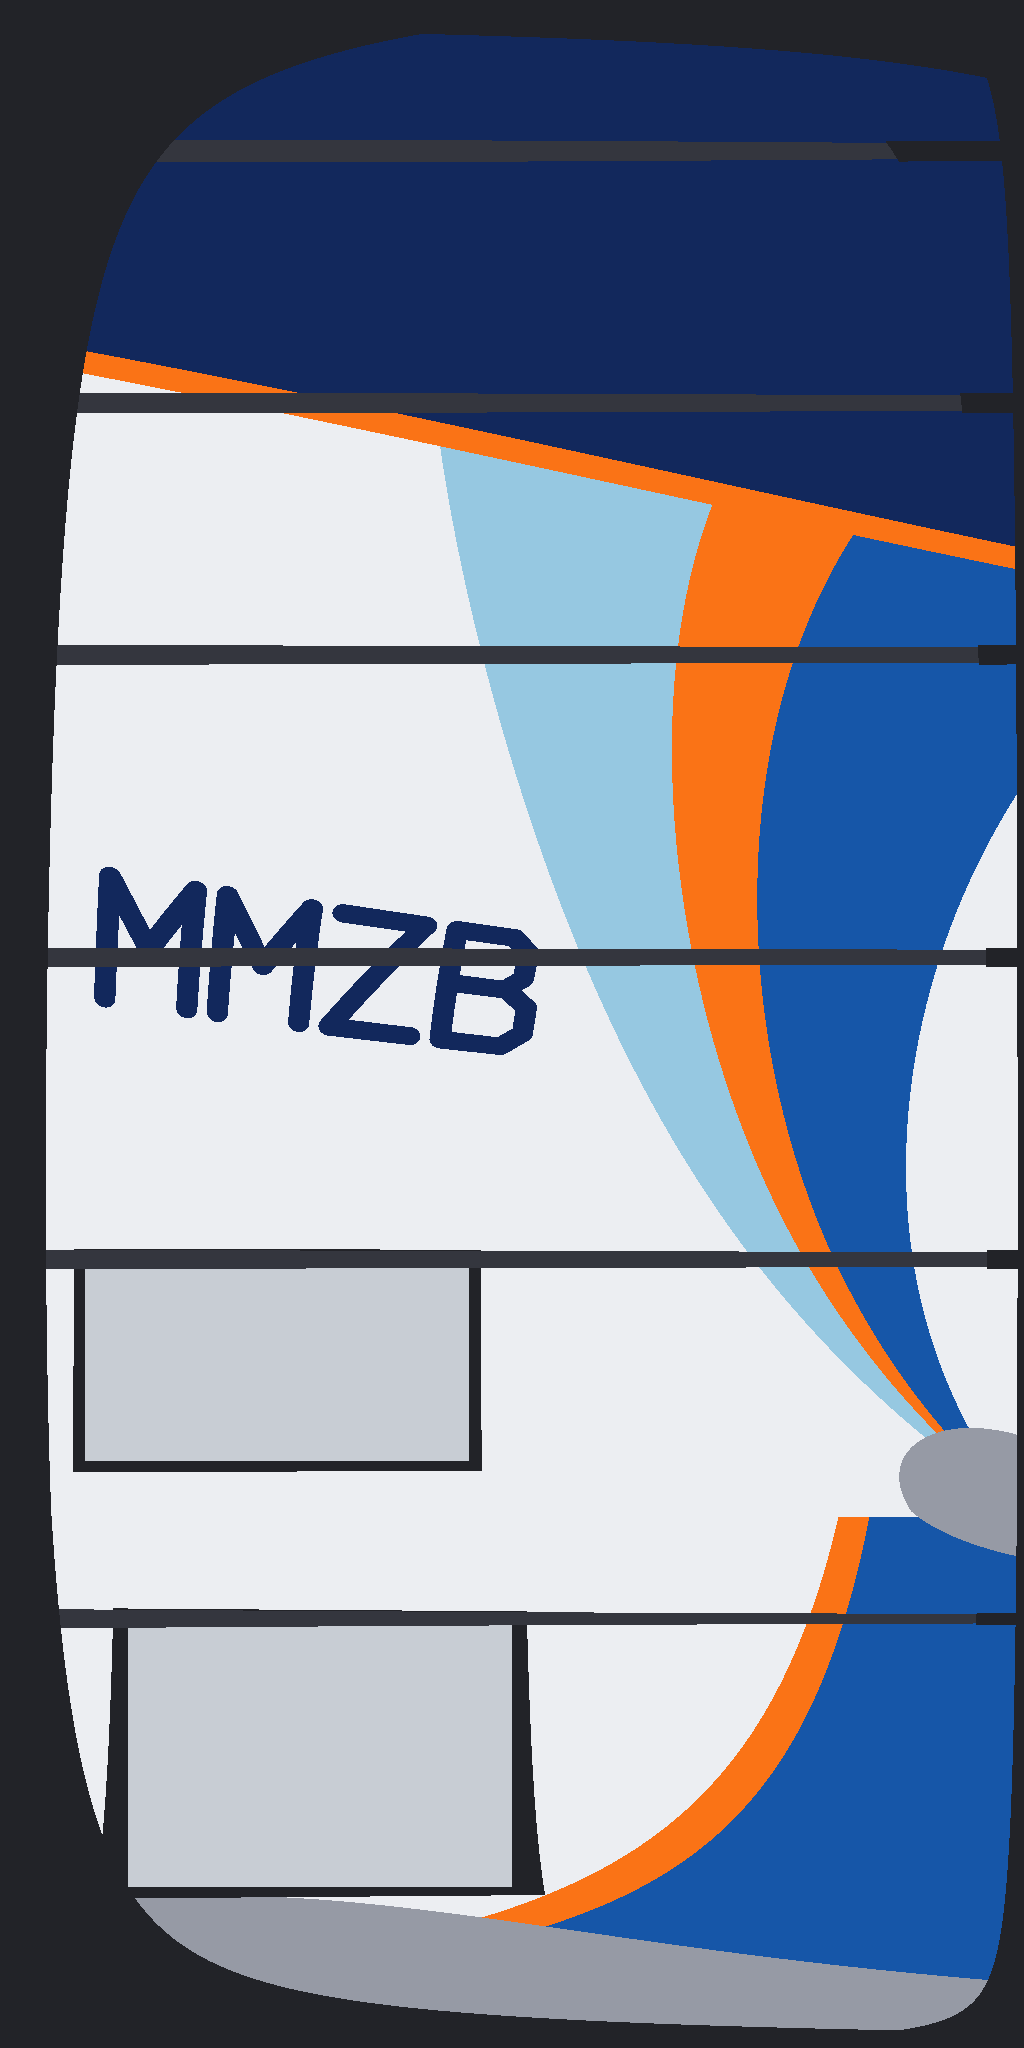
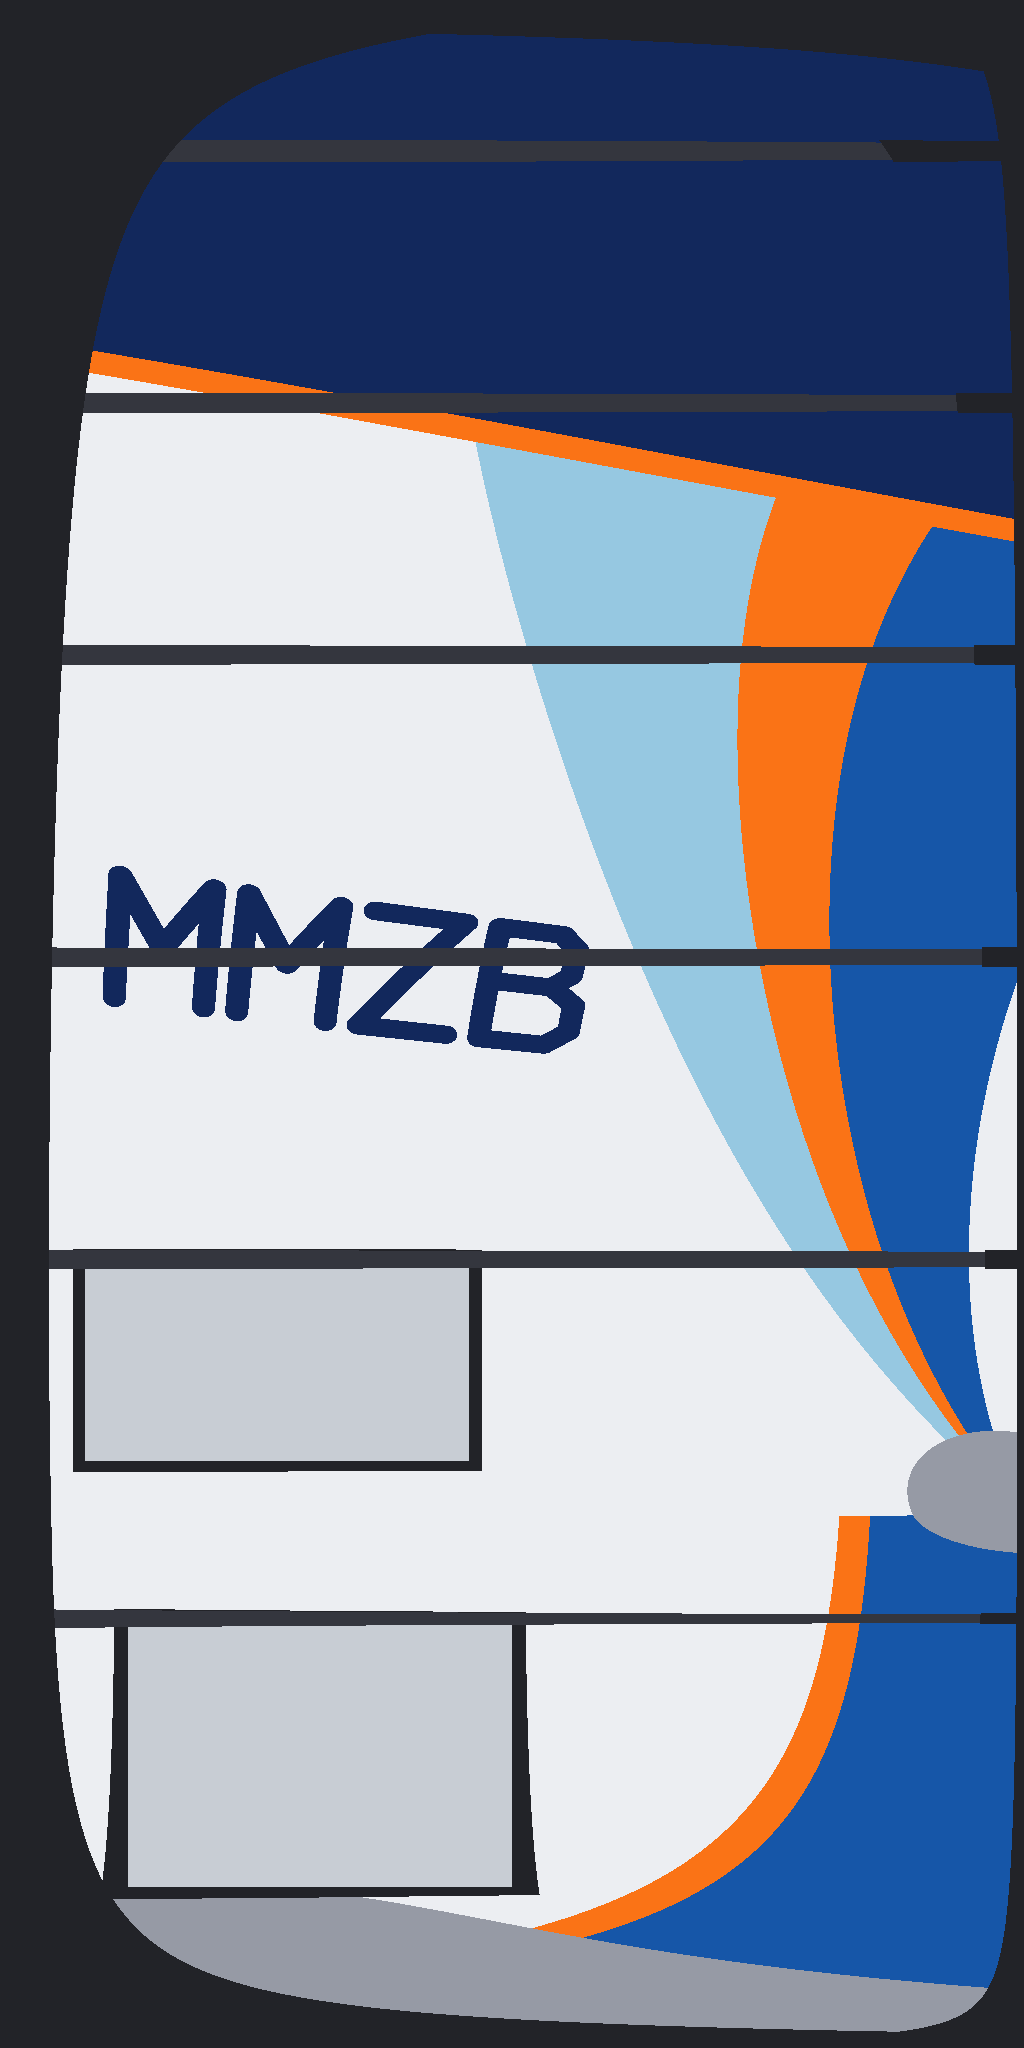
The 8.0's 3D sail: its area from a foot down to the deck, then a little roach
Max in the game: "this is not the 8.0?". The first rebuild grew only the roach (1.34 times a
6.5's) to reach 8.0 m2, and the leech became a D reaching 0.22 m behind the clew. Now
build_rig_models.py fills the foot first (down to 0.09 m above the deck, running low to 90 % of
the boom, as a race sail's foot closes the gap to the deck), then grows the roach (1.18) to the
configured area. A smaller sail keeps the 6.5's higher foot. Visual only: no physics change.

tools/test.sh 563 of 563 (test_rig_visuals: up to 0.1 m behind the clew), tools/check.sh 289
files 0 failed. Report section 14, PROGRESS.md, PROGRESS_LOG.

diff --git a/tools/blender/build_rig_models.py b/tools/blender/build_rig_models.py
@@ -701,7 +701,17 @@ class Curve:
 
 # The foot drops from the tack to close to the deck, then rises to the clew (cut away under
 # the clew). The leech is convex (the roach the battens hold out) up to a narrow head.
-FOOT = Curve([(0.0, TACK_Y), (0.18 * BOOM_M, TACK_Y - 0.42), (0.74 * BOOM_M, 0.42 * BOOM_H), (BOOM_M, BOOM_H)])
+
+
+def foot_curve(depth: float) -> Curve:
+    """The foot. At depth 0 it rises from near the deck to the clew along the sail's diagonal
+    (a 6.5's cut); at 1 it runs low along the deck to 90 % of the boom and rises to the clew
+    there, as a race sail's foot closes the gap to the deck."""
+    return Curve([(0.0, TACK_Y), (0.18 * BOOM_M, TACK_Y - 0.42),
+                  ((0.74 + 0.16 * depth) * BOOM_M, 0.42 * (1.0 - depth) * BOOM_H), (BOOM_M, BOOM_H)])
+
+
+FOOT = foot_curve(0.0)
 
 
 def leech_curve(roach: float) -> Curve:
@@ -752,22 +762,43 @@ def sail_area() -> float:
     return 0.5 * abs(np.dot(x, np.roll(y, -1)) - np.dot(y, np.roll(x, -1)))
 
 
-# The roach that gives the configured area (PH16 step 17: the 8.0's 4.9 m luff and 2.0 m boom
-# with a 6.5's roach drew 7.0 m2). Never less than a 6.5's; bisection, the area grows with it.
-ROACH = 1.0
-LEECH = leech_curve(ROACH)
-if sail_area() < SAIL["area_m2"]:
-    low, high = 1.0, 1.8
+# The configured area (PH16 step 17: the 8.0's 4.9 m luff and 2.0 m boom with a 6.5's cut drew
+# 7.0 m2). A race sail gets its area from a foot close to the deck, so the foot is filled
+# first, then the roach grows (a roach alone made the leech a D, Max: "this is not the 8.0?").
+# Bisections: the area grows with each.
+def _solve(make, low: float, high: float) -> float:
     for _ in range(40):
-        ROACH = 0.5 * (low + high)
-        LEECH = leech_curve(ROACH)
+        middle = 0.5 * (low + high)
+        make(middle)
         if sail_area() < SAIL["area_m2"]:
-            low = ROACH
+            low = middle
         else:
-            high = ROACH
-    ROACH = high
-    LEECH = leech_curve(ROACH)
-print(f"Sail: roach {ROACH:.3f} times a 6.5's")
+            high = middle
+    make(high)
+    return high
+
+
+def _set_foot(depth: float) -> None:
+    global FOOT
+    FOOT = foot_curve(depth)
+
+
+def _set_roach(roach: float) -> None:
+    global LEECH
+    LEECH = leech_curve(roach)
+
+
+FOOT_DEPTH, ROACH = 0.0, 1.0
+_set_foot(FOOT_DEPTH)
+_set_roach(ROACH)
+if sail_area() < SAIL["area_m2"]:
+    _set_foot(1.0)
+    if sail_area() >= SAIL["area_m2"]:
+        FOOT_DEPTH = _solve(_set_foot, 0.0, 1.0)
+    else:
+        FOOT_DEPTH = 1.0
+        ROACH = _solve(_set_roach, 1.0, 1.8)
+print(f"Sail: foot depth {FOOT_DEPTH:.2f}, roach {ROACH:.3f} times a 6.5's")
 
 
 def sail_centroid() -> tuple:

diff --git a/Documentation/reports/ph28/PROGRESS.md b/Documentation/reports/ph28/PROGRESS.md
@@ -23,7 +23,7 @@ Max, 28 October 2026: build the sail from the iQFOiL wind-tunnel study, combine 
 | 15 | Max's play-test: the slingshot (`Game/dev/slingshot.gd`), the sailor's strength, the fin | done (the report's section 10): the full hike (Gourlay & Martellotta, 30 degrees) is the default and keeps the sail in through a bear-away; the bending fin drops the nose in the sim where Max feels it lift, because the rider's weight sits above the fin; the 15 kt broad reach still does not plane. Fagg (1997) read: nothing on the fin's vertical force |
 | 16 | **The hooked-in rider**: Max's answers are the brief, in the report's section 11 | built in part (the report's section 12). On by default: the boom square to the mast (`SailConfig.boom_square_to_mast`; raked back, the centre of effort and the line drop): reach check 0 to 3 % faster, steady; in 24 kt gusts and waves as many falls as before (2 in 400 s on the beam reach). Measured, not made the default: the hands at the centre of effort's place (`hand_grip_m` 0.70, Max's answer 1): up to 1 % more on flat water, but with the square boom the 24 kt beam reach in gusts catapulted 8 times in 400 s (the autopilot holds the 8.0 closer to the edge); for Max with GP3's margin. Built and off: the rig leaning out with the hooked-in body (`SailorConfig.harness_line_m`, `test_hooked_in_rig_lean.gd`): the board bore away past what the rake steers and spun out. Found: a 0.3 to 0.4 m line cannot be had with a full hike under a 1.4 m boom (the model's line is about 1 m); the hike and the hang-back reach further than one body (the centre of mass 0.24 m behind the tail at 24 kt 135°); the fin's upward push lifts the nose only on a board riding on its last 0.4 m (section 10 corrected). Tests: the square boom in `test_sail.gd`; the catapult test's heel after the fall re-pinned at 75° (42.7° on the old code, 59.4° with the square boom). The game draws the boom as the physics has it (`windsurfer.gd`). Found by the validation run and fixed: the rig's drag in the water after a fall measured its speed below the mast foot, and a board in the air spun up to NaN (`_apply_rig_in_water_drag`, the report's section 12). Checks: `tools/test.sh` 556 of 556, `tools/check.sh` 288 files 0 failed, `test_push_warning.gd` passes. `tools/test.sh validation` in full (Session 60, `.logs/ph16_step16_validation.txt`): 35 pass, 9 fail, 2 pending, no hang. Two reds are new against step 15, checked by running those files on step 15's code (8ca7523): the fin's upward force at 12° of heel, 242 N against 246 at 9° (`test_rig_lean_and_fin_loading.gd`; the board porpoises at 12° on both codes, pitch SD 2.4 to 2.5°; it passed by 1.3 % before), and the skipper's 2 falls at 24 kt on T1 (none before: the square boom lets the autopilot hold more of the 8.0 in the gusts). Kept red as the evidence |
 | 17 | **Max's slalom board** (a Patrik 115, 70 cm wide): his measurements (the list at the end of the report's section 12), then the posture from them: the short line, one reach for the body, the trim press's reach | built in part (the report's section 13). Max gave the straps, the fin box and the mast track (from the tail: back straps 0.235 m, 0.15 m out; front straps 0.825 m, 0.25 m out; fin box screws 0.12 and 0.235; track 1.245 to 1.405) and six photos (`Documentation/images/Real life photos/`; committed but for 121.JPG, which carries a photographer's copyright mark and stays on Max's disk). On by default: the feet's pressure stays between the straps (`BoardConfig.back_strap_from_tail_m` 0.235, `front_strap_from_tail_m` 0.825, `WindsurferSim._press_within_straps`, `test_footstraps.gd`): reach check 8 of 9 identical, the 18 kt broad reach 2 % slower and steadier; gusts and waves within 0.7 % but the 24 kt beam reach −2.3 % (one catapult with and without). Measured, not built: the fin at the box (about 0.18 m from the tail against 0.30; an estimate for its sweep): alone, the rake runs out on the 24 kt beam reach and the board catapults; with the mast foot at the back of Max's track it sails, the close reaches 1 to 2 % faster, but the 24 kt beam reach bounces (0.83°): for Michiel. From IMG_4743 (estimates): the line about 0.5 m, the hips about 0.6 m above the deck, the body 40 to 50° from upright, against the model's 1 m line and 0.42 m. `tools/push_check.sh` takes `--board.` settings. Checks: `tools/test.sh` 562 of 562, `tools/check.sh` 289 files 0 failed, `tools/test.sh validation` 37 pass, 7 fail, 2 pending (`.logs/s17_validation.txt`; the straps take away step 16's two new reds, the recovery's bounce and the rake-first threshold). Open: the posture from the photo, the fin and the mast foot, the feet across along the straps' line; from Max the mast foot setting, the boom's height, the lines, his weight, the fin and the sail |
-| 18 | **The bounce lock** (Max: "unlock the bounce lock and it needs to work"), and Max's own setup (80 kg, the boom 1.40 to 1.60, the mast foot "around 1.2", the lines "a bit back of the centre of pressure", a 39 cm fin, the 8.0) | built (the report's section 14). `pitch_budget.gd` prints each force model's power into the bounce. On the default gear the trim was held by the press's reach, not a bounce; Max's setup bounced nose-low at 1.8 Hz because trimming by feel walked the weight forward on any chatter. Now the chatter only stops the creep aft while the board rides well below its aim (`_trim_by_feel`, `test_trim_by_feel.gd`). Max's setup is the default: 80 kg, `hand_grip_m` 0.70, `trim_press_max_m` 1.0 (the back strap is the limit), the boom 1.50 m, the mast foot at 1.265 m from the tail on the deck (0.081 m up), the fin's force 0.18 m from the tail. Reach check: 18 to 24 kt close and beam reaches +3 to +5 %, 12 kt and the broad reaches -1 to -7 %, all steady. Gusts and waves: no falls (the 24 kt beam reach 11.20 with a catapult -> 14.02), 400 s at 24 kt no falls. The 3D models rebuilt with Blender (the JP SL 72, the 8.0 with its roach grown to its area, the lines at 0.70). Checks: `tools/test.sh` 563 of 563, `tools/check.sh` 289 files 0 failed, `tools/test.sh validation` 37 pass, 7 fail, 2 pending (the recovery test passes; new red: the fin's side force 677 N against a 650 N band; the stiff fin re-pinned). Not solved: the wet length, still 1.2 to 1.3 m (the moment balance: the sail's upward force behind the push at full rake, the sailor already behind the tail, the nose rocker; for Michiel) |
+| 18 | **The bounce lock** (Max: "unlock the bounce lock and it needs to work"), and Max's own setup (80 kg, the boom 1.40 to 1.60, the mast foot "around 1.2", the lines "a bit back of the centre of pressure", a 39 cm fin, the 8.0) | built (the report's section 14). `pitch_budget.gd` prints each force model's power into the bounce. On the default gear the trim was held by the press's reach, not a bounce; Max's setup bounced nose-low at 1.8 Hz because trimming by feel walked the weight forward on any chatter. Now the chatter only stops the creep aft while the board rides well below its aim (`_trim_by_feel`, `test_trim_by_feel.gd`). Max's setup is the default: 80 kg, `hand_grip_m` 0.70, `trim_press_max_m` 1.0 (the back strap is the limit), the boom 1.50 m, the mast foot at 1.265 m from the tail on the deck (0.081 m up), the fin's force 0.18 m from the tail. Reach check: 18 to 24 kt close and beam reaches +3 to +5 %, 12 kt and the broad reaches -1 to -7 %, all steady. Gusts and waves: no falls (the 24 kt beam reach 11.20 with a catapult -> 14.02), 400 s at 24 kt no falls. The 3D models rebuilt with Blender (the JP SL 72, the 8.0 with its foot down to the deck and a little roach to make its area, the lines at 0.70). Checks: `tools/test.sh` 563 of 563, `tools/check.sh` 289 files 0 failed, `tools/test.sh validation` 37 pass, 7 fail, 2 pending (the recovery test passes; new red: the fin's side force 677 N against a 650 N band; the stiff fin re-pinned). Not solved: the wet length, still 1.2 to 1.3 m (the moment balance: the sail's upward force behind the push at full rake, the sailor already behind the tail, the nose rocker; for Michiel) |
 
 ## The validation run (Session 57), red tests by cause
 

diff --git a/Documentation/PROGRESS_LOG.md b/Documentation/PROGRESS_LOG.md
@@ -21,7 +21,7 @@ Template for new entries:
 **Done:** Max: "continue step 16"; on his other PC (the reach check gives Session 59's numbers to the last digit). First the full validation after step 16's NaN fix: no hang; 35 pass, 9 fail, 2 pending. Running those files on step 15's code (8ca7523, a worktree) showed two reds new with the square boom: the fin's upward force at 12° of heel (242 against 246 N at 9°, on a run that porpoises at 2.5° pitch SD on both codes) and the skipper's 2 falls at 24 kt. Then Max's measurements of his Patrik 115 (in Dutch, translated in the report's section 13): the back straps over the fin box's front screw, 0.235 m from the tail, 0.15 m either side; the front straps 0.825 m, 0.25 m either side; the fin box screws at 0.12 and 0.235 m; the mast track 1.245 to 1.405 m. Six photos in `Documentation/images/Real life photos/`. Built and on: the feet's pressure stays between the straps (`BoardConfig.back_strap_from_tail_m` 0.235, `front_strap_from_tail_m` 0.825, `WindsurferSim._press_within_straps`, `MassModel.stance_z_m`; `test_footstraps.gd`); the trim by feel had crept behind the back foot. Reach check 8 of 9 identical, the 18 kt broad reach 14.59 -> 14.29 m/s and steadier (0.17 -> 0.09°); gusts and waves within 0.7 %, the 24 kt beam reach 11.46 -> 11.20 (one catapult with and without). `tools/push_check.sh` takes `--board.` settings (the numbers copied every tick). Measured, not built: the fin at the box (its force about 0.18 m from the tail against 0.30; the sweep estimated): alone, the 24 kt beam reach loses its course with the rake at its stop and catapults; with the mast foot at the back of Max's track (1.245 m) nothing falls and the close reaches are 1 to 2 % faster, but the 24 kt beam reach bounces (0.83°). Read from IMG_4743 (estimates): the harness line about 0.5 m, the hips about 0.6 m above the deck, the body 40 to 50° from upright, against the model's full hike at 0.42 m on a 1 m line.
 **Verified:** `tools/test.sh` 562 of 562, `tools/check.sh` 289 files 0 failed, `tools/test.sh validation` 37 pass, 7 fail, 2 pending (the straps take away step 16's two new reds, the recovery's bounce and the rake-first threshold; still red: the polar's old targets, the top speed and its trim, the onset 14.4 kn, the recovery's fall, the skipper's 12 kt time, the waves at 120°). Logs in `.logs/` (`ph16_step16_validation.txt`, `s17_*.txt`). Not verified: how it feels to sail.
 **Decisions:** the straps on by default (measured, not fitted). The fin stays at 0.30 until Michiel has looked at the balance with the fin where the box puts it. Mapping the straps onto the existing settings (stance at the midpoint, reach 0.295) was tried and not kept: the reach is also scaled by the planing ratio, which kept the weight off the back foot (0 to 5 % slower). The photos are committed at Max's word, but for 121.JPG (a photographer's copyright mark).
-**Then the bounce lock (Max: "unlock the bounce lock and it needs to work"; his numbers: the mast foot "around 1.2", the boom 1.40 to 1.60 m, the lines a bit back of the centre of pressure, 80 kg, a 39 cm fin and the 8.0).** `pitch_budget.gd` now prints each force model's power into the hull's oscillation. On the default gear the trim was held by the press's reach and the moment balance, not by a bounce. With Max's setup the board bounced nose-low (18 kt beam reach, 1.8 Hz, pitch -4 to +2.7 deg): the hull's water pumps the pitch (+4.5 W) and the legs damp it, and trimming by feel walked the weight forward on every chatter. Fixed in `_trim_by_feel`: the chatter only stops the creep aft while the board rides a band or more below its aim. Max's setup is the default now (80 kg, `hand_grip_m` 0.70, `trim_press_max_m` 1.0, the boom 1.50 m, the mast foot at 1.265 m on the deck, the fin's force 0.18 m from the tail). Reach check: 18 to 24 kt close and beam reaches +3 to +5 %, light wind and the broad reaches -1 to -7 %, all steady; gusts and waves no falls (the 24 kt beam reach 11.20 with a catapult -> 14.02; 400 s at 24 kt no falls). The 3D models rebuilt with Blender on this PC (the sail's roach grown to the 8.0's area). Tried for the wet length and not enough: the rig's lean, the fin's bank, a lower centre of effort, a higher trim aim; it stays 1.2 to 1.3 m (report section 14). Checks: `tools/test.sh` 563 of 563 (the 75 kg hand calculations keep their 75 kg; the rest tests take the configured mass; the catapult test checks below 90 deg and back upright; the 3D models against the defaults), `tools/check.sh` 289 files 0 failed, `tools/test.sh validation` 37 pass, 7 fail, 2 pending (the recovery test passes; new red: the fin's side force 677 N against a 650 N band; the stiff fin re-pinned).
+**Then the bounce lock (Max: "unlock the bounce lock and it needs to work"; his numbers: the mast foot "around 1.2", the boom 1.40 to 1.60 m, the lines a bit back of the centre of pressure, 80 kg, a 39 cm fin and the 8.0).** `pitch_budget.gd` now prints each force model's power into the hull's oscillation. On the default gear the trim was held by the press's reach and the moment balance, not by a bounce. With Max's setup the board bounced nose-low (18 kt beam reach, 1.8 Hz, pitch -4 to +2.7 deg): the hull's water pumps the pitch (+4.5 W) and the legs damp it, and trimming by feel walked the weight forward on every chatter. Fixed in `_trim_by_feel`: the chatter only stops the creep aft while the board rides a band or more below its aim. Max's setup is the default now (80 kg, `hand_grip_m` 0.70, `trim_press_max_m` 1.0, the boom 1.50 m, the mast foot at 1.265 m on the deck, the fin's force 0.18 m from the tail). Reach check: 18 to 24 kt close and beam reaches +3 to +5 %, light wind and the broad reaches -1 to -7 %, all steady; gusts and waves no falls (the 24 kt beam reach 11.20 with a catapult -> 14.02; 400 s at 24 kt no falls). The 3D models rebuilt with Blender on this PC (the 8.0's area from a foot down to the deck and a little roach; a roach alone made a D-shaped leech, which Max spotted in the game). Tried for the wet length and not enough: the rig's lean, the fin's bank, a lower centre of effort, a higher trim aim; it stays 1.2 to 1.3 m (report section 14). Checks: `tools/test.sh` 563 of 563 (the 75 kg hand calculations keep their 75 kg; the rest tests take the configured mass; the catapult test checks below 90 deg and back upright; the 3D models against the defaults), `tools/check.sh` 289 files 0 failed, `tools/test.sh validation` 37 pass, 7 fail, 2 pending (the recovery test passes; new red: the fin's side force 677 N against a 650 N band; the stiff fin re-pinned).
 **Next:** Max's play-test of his setup; the wet length (the moment balance, with Michiel); the posture from the photo (a higher, less far out full hike on a 0.5 m line, against the righting moment the 8.0 needs at 24 kt); the fin at the box with the mast foot (Michiel); the feet across along the straps' line; from Max: the mast foot setting for slalom, the boom's height, the lines, his weight, the fin, the sail in IMG_4743, and section 12's question on the nose.
 
 ## 30 October 2026 - Session 59: PH16 step 16, the hooked-in rider (part one)

diff --git a/Documentation/reports/ph28/hull_balance.md b/Documentation/reports/ph28/hull_balance.md
@@ -506,7 +506,7 @@ The pitch budget says why (measured on step 17's gear with 80 kg, before the res
 
 ### Also in this step
 
-- **The 3D models,** built again with Blender on Max's PC (`tools/blender.sh tools/blender/build_rig_models.py`): the JP SL 72, the 8.0 and the lines at 0.70. The game showed the freeride board and the 6.5 until now (Blender was not on the other PC). The builder's sail outline drew 7.0 m² on the 8.0's luff and boom, so its roach now grows until the outline has the configured area (1.34 times a 6.5's; the leech reaches 0.22 m behind the clew). `test_rig_visuals.gd` now compares the models with the default configs. It finds the deck's middle with the rocker under it, and lets the roach reach a little behind the clew.
+- **The 3D models,** built again with Blender on Max's PC (`tools/blender.sh tools/blender/build_rig_models.py`): the JP SL 72, the 8.0 and the lines at 0.70. The game showed the freeride board and the 6.5 until now (Blender was not on the other PC). The builder's sail outline drew 7.0 m² on the 8.0's luff and boom. A first fix grew only the roach (1.34 times a 6.5's), and the leech became a D reaching 0.22 m behind the clew. Max, in the game: "this is not the 8.0?". Now the builder fills the foot first, down to 0.09 m above the deck and running low to 90 % of the boom as a race sail's foot closes the gap to the deck, and then grows the roach (1.18 times a 6.5's) to the configured area. `test_rig_visuals.gd` now compares the models with the default configs. It finds the deck's middle with the rocker under it, and lets the roach reach up to 0.1 m behind the clew.
 - **The catapult test** (`test_windsurfer_sim.gd`): the board's heel just after the fall is 75.5° with Max's setup. The test checked it against 75, a margin under the 90° it names. It now checks what it says: below 90° (not rolled over), and back below 10° 6 s after the fall (0.8° here).
 - **Tests of the old 75 kg numbers:** `test_mass_model.gd` keeps its hand-worked 75 kg sailor (with the freeride board and the 6.5 it already loads). The rest tests take the configured mass. The stiff fin's pin (`test_fin_bend.gd`) is re-pinned: 1.72°, 652 N, 22 N.
 
